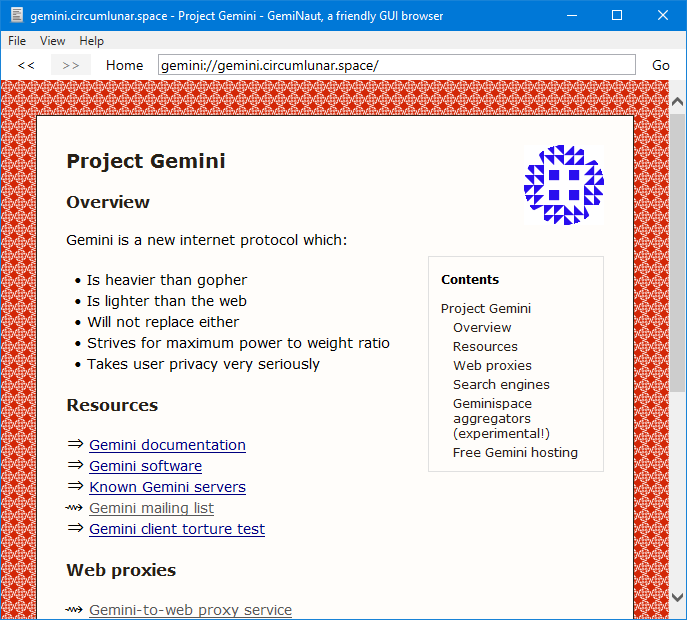
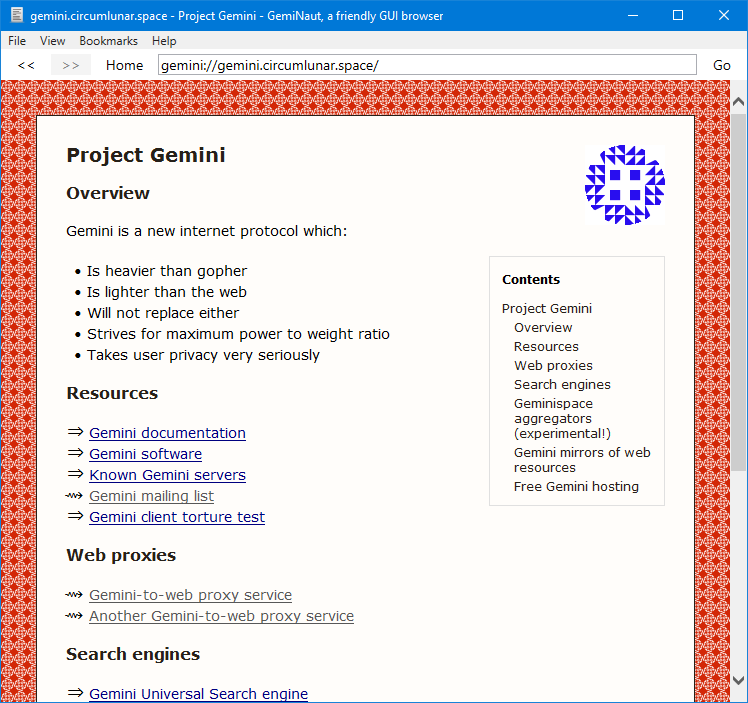
updated readme notes and screenshots

diff --git a/GemiNaut/GmiConverters/Themes/Plain.css b/GemiNaut/GmiConverters/Themes/Plain.css
@@ -8,6 +8,22 @@ body {
 	
 }
 
+a {
+	color: navy;
+}
+
+a.other {
+	color: #404040;
+}
+a.gemini {
+	color: navy;
+}
+
+div {
+	line-height:1.27em;
+	
+}
+
 h1 {
 	font-size: 1.3em;
 	margin-top: 0.3em;
@@ -26,6 +42,13 @@ h3 {
 	color: black;
 	margin-top: 0.2em;
 	margin-bottom: 0;
+}
+
+div.bullet {
+  padding-left: 1.1em ;
+  text-indent: -0.6em ;
+  margin-left:0.3em;
+  margin-top:0.15em;	
 }
 
 pre div {
@@ -59,5 +82,72 @@ pre.inline {
 	padding:0.7em;
 	margin:0.7em;
 	border-style: solid;
-	border-color:#a0a0a0;
+	border-color:#808080;
+	font-family:Consolas;
+	font-size:0.9em;
+	line-height:1em;
+}
+
+div.gemini-link {
+  padding-left: 1.2em ;
+  text-indent: -1.3em ;
+  margin-left:0.3em;
+  margin-top:0.15em;
+} 
+
+div.other-link {
+  padding-left: 1.2em ;
+  text-indent: -1.4em ;
+  margin-left:0.3em;
+  margin-top:0.15em;
+} 
+
+div.toc1 {
+	margin-left:0em;
+	margin-top:0.5em;
+	line-height:1.2em;
+}
+
+div.toc2 {
+	margin-left:1em;
+	margin-top:0.3em;
+	line-height:1.2em;
+}
+
+div.toc3 {
+	margin-left:1.5em;
+	margin-top:0.3em;
+	line-height:1.2em;
+}
+
+#home {
+	font-size:0.85em;
+	margin-bottom:1em;
+	margin-top:1em;
+}
+
+#toc-container {
+	width:150px;
+	font-size:0.85em;
+	margin-left:2em;
+	margin-bottom:2em;
+	clear:both;
+	padding:1em;
+	float:right;
+	background: #ffffff;
+	border:1px solid #808080;
+}
+
+#toc-label {
+	margin-bottom:1em;
+	font-weight:bold
+}
+
+a.toc {
+	text-decoration: none;
+	color: #e0e0e0;
+}
+
+a.toc:hover {
+	background:#505050;
 }

diff --git a/GemiNaut/GmiConverters/Themes/Dark.css b/GemiNaut/GmiConverters/Themes/Dark.css
@@ -48,7 +48,7 @@ h3 {
 
 div.bullet {
   padding-left: 1.1em ;
-  text-indent: -0.7em ;
+  text-indent: -0.6em ;
   margin-left:0.3em;
   margin-top:0.15em;	
 }
@@ -90,6 +90,20 @@ pre.inline {
 	font-size:0.9em;
 	line-height:1em;
 }
+
+div.gemini-link {
+  padding-left: 1.2em ;
+  text-indent: -1.3em ;
+  margin-left:0.3em;
+  margin-top:0.15em;
+} 
+
+div.other-link {
+  padding-left: 1.2em ;
+  text-indent: -1.4em ;
+  margin-left:0.3em;
+  margin-top:0.15em;
+} 
 
 div.toc1 {
 	margin-left:0em;

diff --git a/README.md b/README.md
@@ -32,6 +32,13 @@ GPL 3
 
 # History
 
+## 0.8.5, 19-Jun-2020
+
+* new dark theme
+* bookmarks - source format is just text/gemini
+* better vertical spacing - e.g. headings always have space between them and surrounding paragraphs
+* user definable themes - create your own and drop it in the GmiConverters/themes folder
+
 ## 0.8.4, 10-Jun-2020
 
 * use correct percent encoding for URL requests with input
